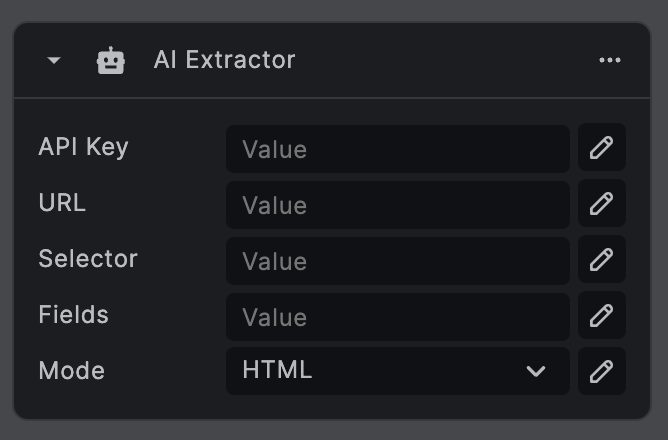
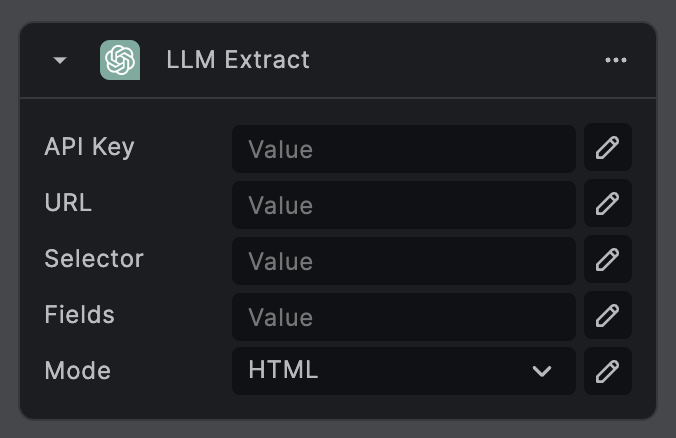
minor changes

diff --git a/src/App.tsx b/src/App.tsx
@@ -98,9 +98,11 @@ const scrapeOptions: ScrapeOption[] = [
         </div>
       </div>
     ),
-    description: "Easily extract structured data from any web page using GPT.",
+    description:
+      "Easily extract structured data from any web page using GPT from OpenAI or Claude from Anthropic.",
     image: "llmExtractor.png",
     remixUrl: "https://buildship.app/remix?template=openai-extract-hackernews",
+    docsUrl: "https://docs.buildship.com/utility-nodes/llm-extract",
   },
   {
     value: "crawl",
@@ -213,10 +215,15 @@ export default function App() {
     <ThemeProvider defaultTheme="dark" storageKey="vite-ui-theme">
       <div className="px-4 pb-8 pt-4 space-y-14 max-w-7xl mx-auto">
         <header className="border-b pb-2 flex justify-between items-center">
-          <div className="flex items-center">
-            <img src="logo.webp" alt="" width={35} />
-            <h2 className="text-lg">BuildShip Scrape Playground</h2>
-          </div>
+          <a href="https://buildship.com">
+            <div className="flex items-center">
+              <img src="logo.webp" alt="" width={35} />
+              <h2 className="text-lg">
+                BuildShip - Website Scraping Playground
+              </h2>
+            </div>
+          </a>
+
           <ModeToggle />
         </header>
         <div>
@@ -471,7 +478,7 @@ export default function App() {
                       name="mode"
                       render={({ field }) => (
                         <FormItem>
-                          <FormLabel>BuildShip Node (Scrape Mode)</FormLabel>
+                          <FormLabel>Select Scrape Mode</FormLabel>
                           <div className="space-2-4">
                             {scrapeOptions.map((option) => (
                               <label
